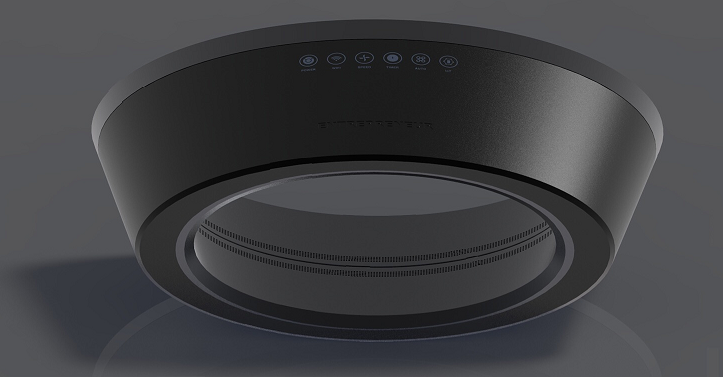
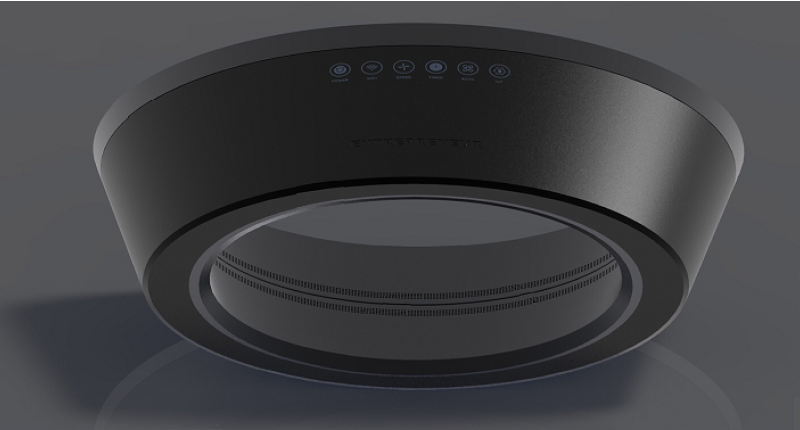
fika

diff --git a/index.html b/index.html
@@ -277,7 +277,7 @@
       </div>
       <div class="content-img">
         <img src="img/fika_main.png" alt="피카 메인이미지">
-        <img src="img/fika_img1_thum.png" alt="피카2">
+        <img src="img/fika_img1.PNG" alt="피카1">
         <img src="img/fika_sketch.png" alt="피카 스케치">
       </div>
     </div>
